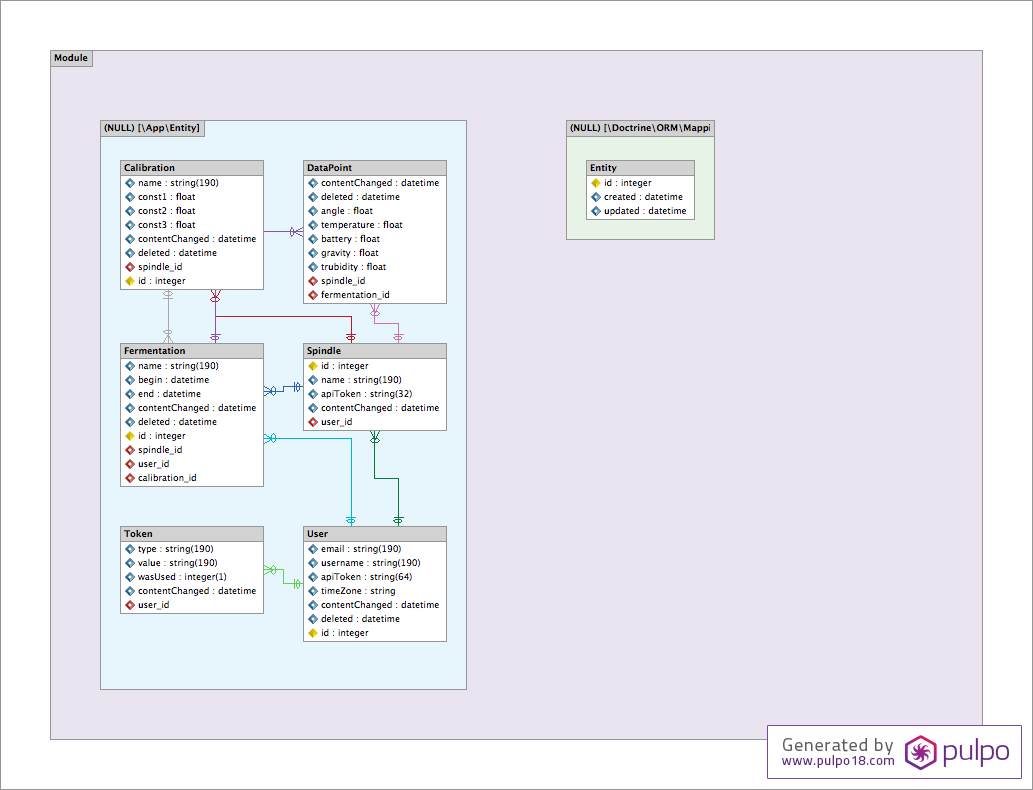
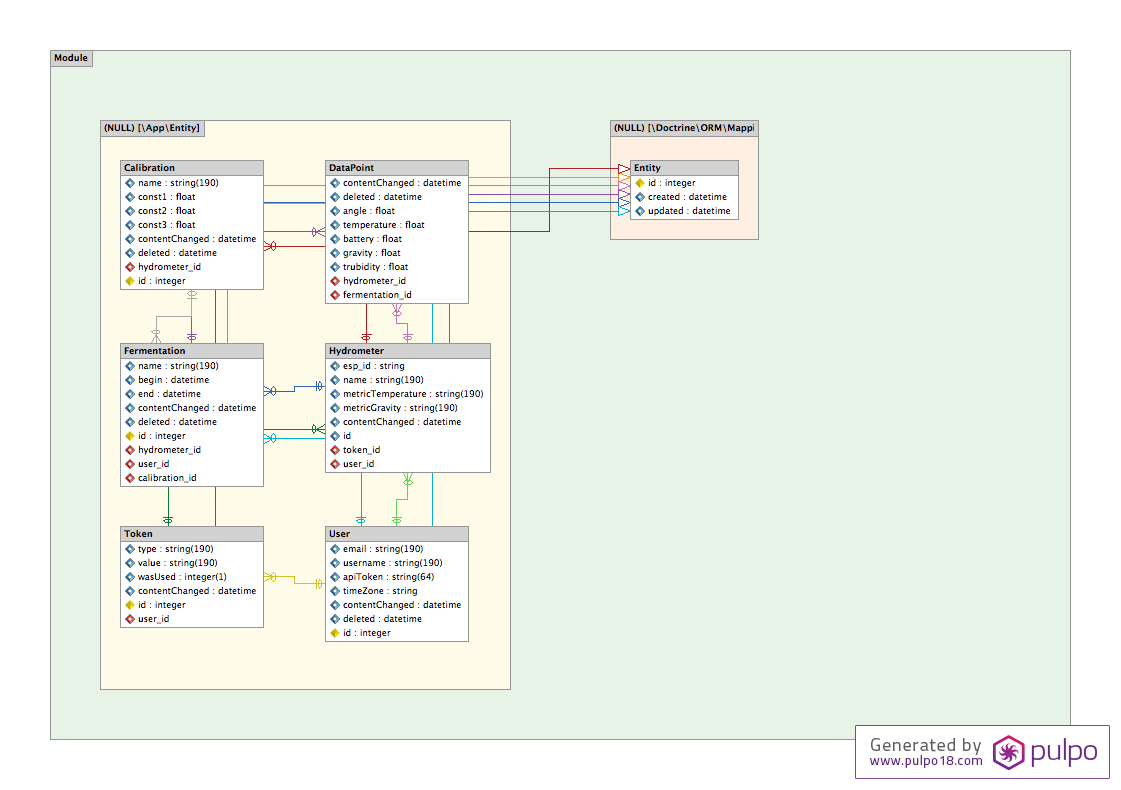
Regenerate ERM

diff --git a/docs/ERM.md b/docs/ERM.md
@@ -1,0 +1,11 @@
+## ERM
+
+A Hydrometer is identified by a token.
+A Hydrometer can have a calibration and multiple datapoints with values and a date.
+Datapoints can be grouped together to a fermentation, allowing the users to archive them.
+Users are identified by email, have a username, an api-token and a timezone.
+Token are used for registering, logging in and cookies.
+
+An image outlining the ERM can be found in `docs/ERM.png`.
+
+![ERM](./ERM.png)
